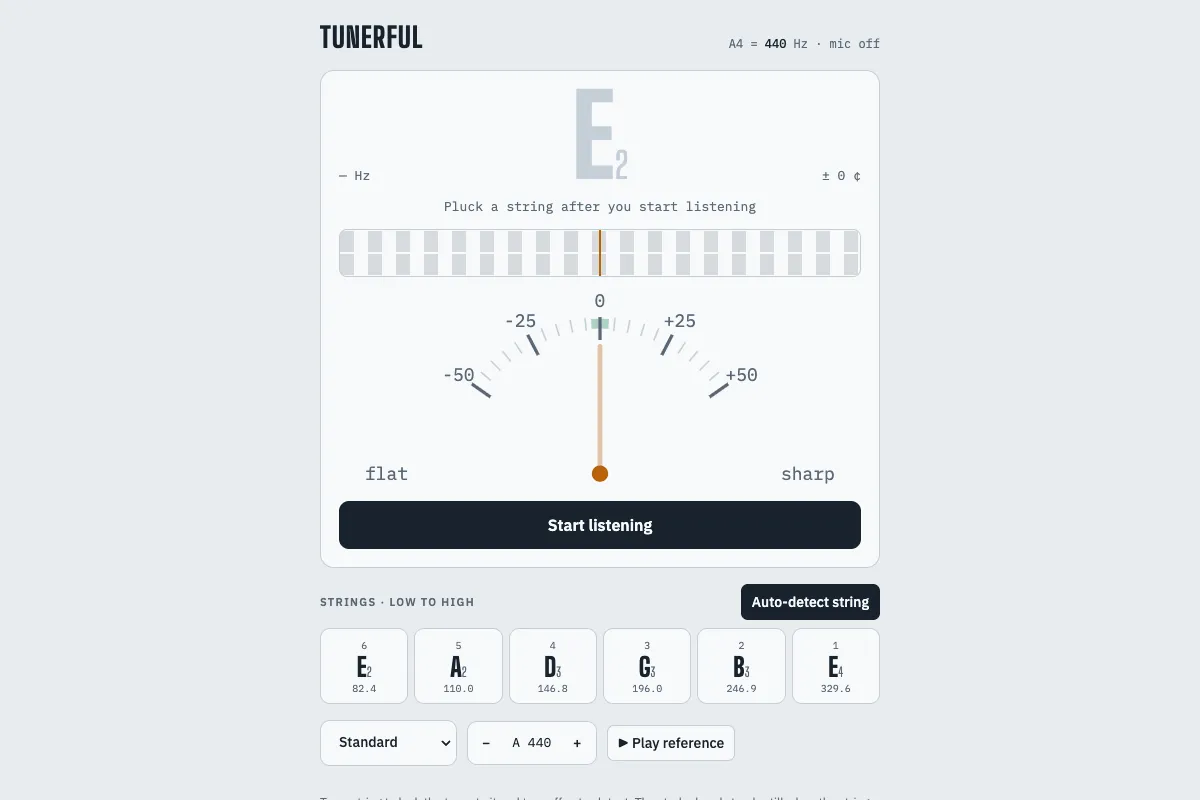
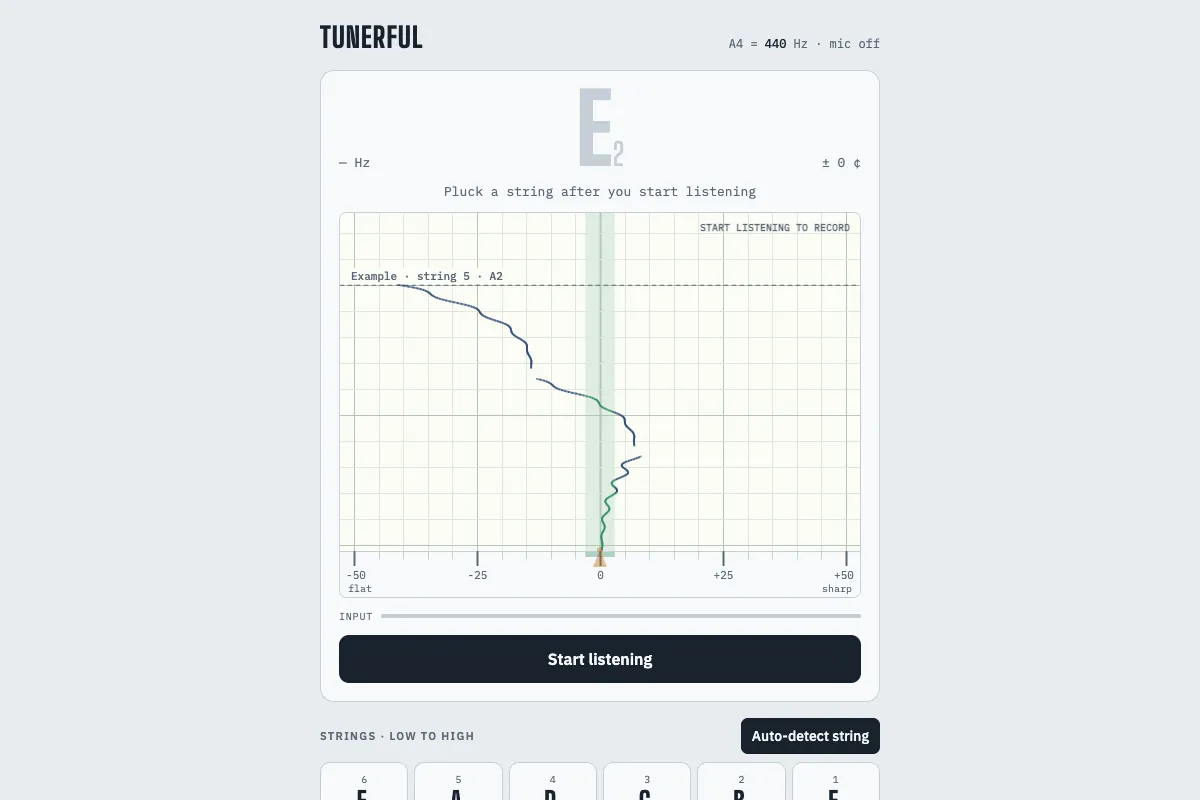
Tunerful: redesign as a chart recorder, and fix the microphone
The pitch trace is drawn on paper that feeds up out of a pen carriage
carrying the cents scale, replacing the strobe band and arc gauge. The
paper only feeds while a note sounds, and a new sheet starts whenever
the string changes, so the sheet holds the tuning history for the
current string. An example sheet is shown before listening.

The tuner often heard nothing: a fixed loudness gate discarded quiet
input with auto gain control off. Detection now uses an adaptive noise
floor shown on a new input meter, needs three agreeing readings before
the pen drops, skips windows that straddle an attack or stop, and lifts
the pen in a note's faint tail. The audio context is resumed after the
permission prompt and the analyser is pulled through a silent sink.

The icon is redrawn to match.

diff --git a/static-assets/toys/tunerful/index.html b/static-assets/toys/tunerful/index.html
@@ -5,24 +5,27 @@
 <script src="../pwa.js" defer></script>
 </head><body>
 <title>Tunerful</title>
-<meta name="description" content="A guitar tuner with a strobe band and cents gauge: it listens through the microphone, spots the string you play, and plays reference tones for eight tunings">
+<meta name="description" content="A guitar tuner built like a chart recorder: it listens through the microphone, spots the string you play, and plots its pitch on paper that scrolls up from the pen, with reference tones for eight tunings">
 <link rel="preconnect" href="https://fonts.googleapis.com">
 <link rel="stylesheet" href="https://fonts.googleapis.com/css2?family=Big+Shoulders+Display:wght@500;800&family=IBM+Plex+Mono:wght@400;500&family=IBM+Plex+Sans:wght@400;500;600&display=swap">
 <style>
-/* Layout: one instrument faceplate — strobe band and cents gauge on top, strings and settings below */
+/* Layout: one instrument faceplate — readout on top, chart paper feeding up out of the pen carriage, strings and settings below */
 :root{
   --bg:#e7ecef; --panel:#f8fafb; --ink:#18222c; --muted:#5a6876; --line:#c5cfd7;
-  --accent:#b8620c; --good:#23875a; --warn:#b9442a; --stripe:#18222c;
+  --accent:#b8620c; --good:#23875a; --warn:#b9442a;
+  --paper:#fbfcf6; --grid:#dfe7dc; --grid2:#b4c7b6; --trace:#1d3b6e;
   --f-display:"Big Shoulders Display", "Arial Narrow", Impact, sans-serif;
   --f-body:"IBM Plex Sans", system-ui, -apple-system, sans-serif;
   --f-mono:"IBM Plex Mono", ui-monospace, Menlo, monospace;
 }
 @media (prefers-color-scheme: dark){:root:not([data-theme="light"]){
   --bg:#10171d; --panel:#172129; --ink:#e4ebf0; --muted:#8798a6; --line:#2a3742;
-  --accent:#f0a447; --good:#5fd08e; --warn:#ef7a5e; --stripe:#e4ebf0; color-scheme:dark}}
+  --accent:#f0a447; --good:#5fd08e; --warn:#ef7a5e;
+  --paper:#121b21; --grid:#1f2c34; --grid2:#33464f; --trace:#9cc4ff; color-scheme:dark}}
 :root[data-theme="dark"]{
   --bg:#10171d; --panel:#172129; --ink:#e4ebf0; --muted:#8798a6; --line:#2a3742;
-  --accent:#f0a447; --good:#5fd08e; --warn:#ef7a5e; --stripe:#e4ebf0; color-scheme:dark}
+  --accent:#f0a447; --good:#5fd08e; --warn:#ef7a5e;
+  --paper:#121b21; --grid:#1f2c34; --grid2:#33464f; --trace:#9cc4ff; color-scheme:dark}
 
 html,body{height:100%}
 body{background:var(--bg);color:var(--ink);font-family:var(--f-body);font-size:15px;
@@ -33,11 +36,11 @@ h1{font-family:var(--f-display);font-weight:800;font-size:28px;letter-spacing:.0
 .status{font-family:var(--f-mono);font-size:12px;color:var(--muted);text-align:right}
 .status b{font-weight:500;color:var(--ink)}
 
-.face{background:var(--panel);border:1px solid var(--line);border-radius:14px;padding:18px;display:flex;flex-direction:column;gap:14px}
+.face{background:var(--panel);border:1px solid var(--line);border-radius:14px;padding:18px;display:flex;flex-direction:column;gap:12px}
 .readout{display:grid;grid-template-columns:1fr auto 1fr;align-items:end;gap:8px}
 .readout .side{font-family:var(--f-mono);font-size:13px;color:var(--muted);font-variant-numeric:tabular-nums}
 .readout .side.r{text-align:right}
-.note{font-family:var(--f-display);font-weight:800;font-size:112px;line-height:.85;text-align:center;min-width:2ch;transition:color .2s}
+.note{font-family:var(--f-display);font-weight:800;font-size:96px;line-height:.85;text-align:center;min-width:2ch;transition:color .2s}
 .note sub,.note sup{font-size:.32em;font-weight:500;vertical-align:baseline}
 .note sup{position:relative;top:-1.6em;margin-left:-.05em}
 .note.in{color:var(--good)}
@@ -45,15 +48,15 @@ h1{font-family:var(--f-display);font-weight:800;font-size:28px;letter-spacing:.0
 .hint{text-align:center;font-family:var(--f-mono);font-size:13px;min-height:1.3em;color:var(--muted)}
 .hint.in{color:var(--good)} .hint.off{color:var(--accent)}
 
-.strobe{position:relative;height:46px;border-radius:8px;overflow:hidden;border:1px solid var(--line)}
-.strobe canvas{display:block;width:100%;height:100%}
-.strobe .mid{position:absolute;left:50%;top:-1px;bottom:-1px;width:2px;margin-left:-1px;background:var(--accent)}
-.gauge svg{width:100%;height:auto;display:block;overflow:visible}
-.gauge text{font-family:var(--f-mono);font-size:11px;fill:var(--muted)}
-.gauge .tick{stroke:var(--line)} .gauge .tick.major{stroke:var(--muted)}
-.gauge .zone{fill:none;stroke:var(--good);stroke-width:6;opacity:.35}
-.gauge .needle{stroke:var(--accent);stroke-width:3;stroke-linecap:round}
-.gauge .hub{fill:var(--accent)}
+/* the recorder: paper above, pen carriage (the cents scale) along the bottom edge */
+.recorder{position:relative;height:clamp(260px,48vh,480px);border-radius:8px;overflow:hidden;border:1px solid var(--line)}
+.recorder canvas{display:block;width:100%;height:100%}
+.level{display:flex;align-items:center;gap:8px;font-family:var(--f-mono);font-size:10px;letter-spacing:.08em;color:var(--muted);text-transform:uppercase}
+.level .bar{position:relative;flex:1;height:4px;border-radius:2px;background:var(--line)}
+.level .bar i{position:absolute;left:0;top:0;bottom:0;width:0;border-radius:2px;background:var(--muted);transition:width .08s}
+.level .bar b{position:absolute;top:-3px;bottom:-3px;width:2px;margin-left:-1px;background:var(--accent);left:0}
+.level:not(.on) .bar b{display:none}
+.level.hot .bar i{background:var(--good)}
 
 .go{font:600 16px var(--f-body);background:var(--ink);color:var(--panel);border:0;border-radius:10px;padding:14px;cursor:pointer}
 .go.on{background:transparent;color:var(--ink);border:1px solid var(--line)}
@@ -80,7 +83,7 @@ select{padding-right:4px}
 .chip[aria-pressed="true"]{background:var(--ink);color:var(--panel);border-color:var(--ink)}
 button:focus-visible,select:focus-visible{outline:2px solid var(--accent);outline-offset:2px}
 .foot{font-size:12px;color:var(--muted);line-height:1.5}
-@media (max-width:420px){.note{font-size:92px}.str .n{font-size:22px}}
+@media (max-width:420px){.note{font-size:80px}.str .n{font-size:22px}}
 @media (prefers-reduced-motion:reduce){*{transition:none!important}}
 </style>
 
@@ -97,8 +100,8 @@ button:focus-visible,select:focus-visible{outline:2px solid var(--accent);outlin
       <div class="side r" id="cents">± 0 ¢</div>
     </div>
     <div class="hint" id="hint">Pluck a string after you start listening</div>
-    <div class="strobe" aria-hidden="true"><canvas id="strobe"></canvas><div class="mid"></div></div>
-    <div class="gauge" aria-hidden="true"><svg id="gauge" viewBox="0 0 320 120"></svg></div>
+    <div class="recorder" aria-hidden="true"><canvas id="chart"></canvas></div>
+    <div class="level" id="level" aria-hidden="true"><span>Input</span><span class="bar"><i></i><b></b></span></div>
     <button class="go" id="go">Start listening</button>
     <div class="msg" id="msg" hidden></div>
   </section>
@@ -121,7 +124,7 @@ button:focus-visible,select:focus-visible{outline:2px solid var(--accent);outlin
     <button class="chip" id="play">▶ Play reference</button>
   </section>
 
-  <p class="foot">Tap a string to lock the tuner to it and turn off auto-detect. The strobe band stands still when the string is in tune and drifts right when sharp, left when flat. Green zone is ±3 cents.</p>
+  <p class="foot">The pen rides along the cents scale at the foot of the chart, and the paper feeds upwards while a note sounds, so the sheet holds your tuning history for the current string. A new sheet starts whenever the string changes. Tap a string to lock the tuner to it and turn off auto-detect. The green band is ±3 cents. The orange mark on the input bar is the noise gate, which rises with background noise.</p>
 </div>
 
 <script>
@@ -180,51 +183,112 @@ function setA4(v){a4=Math.max(415,Math.min(466,v));store.set('a4',a4);$('a4v').t
 $('a4dn').onclick=()=>setA4(a4-1);$('a4up').onclick=()=>setA4(a4+1);
 setA4(a4);
 
-/* ---------- gauge ---------- */
-const G=$('gauge'),cx=160,cy=112,R=96,SPAN=55; // degrees each side for ±50¢
-const ang=c=>(Math.max(-50,Math.min(50,c))/50)*SPAN*Math.PI/180;
-let svg='';
-const arc=(c0,c1,r)=>{const a0=ang(c0),a1=ang(c1);
-  return `M${cx+r*Math.sin(a0)} ${cy-r*Math.cos(a0)} A${r} ${r} 0 0 1 ${cx+r*Math.sin(a1)} ${cy-r*Math.cos(a1)}`};
-svg+=`<path class="zone" d="${arc(-3,3,R-4)}"/>`;
-for(let c=-50;c<=50;c+=5){const a=ang(c),maj=c%25===0,r0=maj?R-14:R-8;
-  svg+=`<line class="tick${maj?' major':''}" x1="${cx+r0*Math.sin(a)}" y1="${cy-r0*Math.cos(a)}" x2="${cx+R*Math.sin(a)}" y2="${cy-R*Math.cos(a)}" stroke-width="${maj?2:1}"/>`;
-  if(maj){const rl=R+10;svg+=`<text x="${cx+rl*Math.sin(a)}" y="${cy-rl*Math.cos(a)+4}" text-anchor="middle">${c>0?'+':''}${c}</text>`}}
-svg+=`<text x="16" y="116">flat</text><text x="304" y="116" text-anchor="end">sharp</text>`;
-svg+=`<line id="needle" class="needle" x1="${cx}" y1="${cy}" x2="${cx}" y2="${cy-R+18}"/><circle class="hub" cx="${cx}" cy="${cy}" r="5"/>`;
-G.innerHTML=svg;
-const needle=$('needle');
-let needleC=0,targetC=0,live=false;
+/* ---------- chart recorder ----------
+   Paper position is measured in CSS px of paper fed so far. The paper only
+   feeds while the pen is down (a note is sounding), so the silence between
+   plucks costs a short gap rather than a screenful, and the sheet holds the
+   whole history for the current string. A change of string starts a new sheet. */
+const FEED=26;            // px of paper per second of sound
+const CARR=46;            // height of the pen carriage strip
+const GAP=10;             // paper skipped when the pen lifts and drops again
+const cv=$('chart'),cx=cv.getContext('2d');
+let W=0,H=0,dpr=1;
+let paper=0,trace=[],marks=[],demo=false;
+let needleC=0,targetC=0,live=false,wasDrawing=false;
+function size(){const r=cv.getBoundingClientRect();dpr=devicePixelRatio||1;W=r.width;H=r.height;cv.width=Math.round(W*dpr);cv.height=Math.round(H*dpr)}
+new ResizeObserver(size).observe(cv);size();
+let cssCache={};
+const css=v=>cssCache[v]??=getComputedStyle(document.documentElement).getPropertyValue(v).trim();
+matchMedia('(prefers-color-scheme: dark)').addEventListener?.('change',()=>cssCache={});
 
-/* ---------- strobe ---------- */
-const sc=$('strobe'),sx=sc.getContext('2d');
-let phase=0,lastT=performance.now();
-function sizeStrobe(){const r=sc.getBoundingClientRect(),d=devicePixelRatio||1;sc.width=r.width*d;sc.height=r.height*d}
-addEventListener('resize',sizeStrobe);sizeStrobe();
-const css=v=>getComputedStyle(document.documentElement).getPropertyValue(v).trim();
+function newSheet(text){trace=[];marks=[{p:paper,text}];demo=false}
 
+// a sample sheet shown before listening: three plucks of the A string, flat, then over, then settling in
+function demoSheet(){
+  paper=0;trace=[];marks=[{p:0,text:'Example · string 5 · A2'}];demo=true;
+  [[-41,-14,3.2],[-14,7,2.6],[7,0.4,3.6]].forEach(([c0,c1,dur],k)=>{
+    if(k){trace.push(null);paper+=GAP}
+    for(let t=0;t<=dur;t+=1/30){const u=t/dur,e=1-Math.pow(1-u,2.4);
+      trace.push({p:paper,c:c0+(c1-c0)*e+Math.sin(t*9+k)*1.4*(1-u)});paper+=FEED/30}
+  });
+  trace.push(null);
+}
+
+function xOf(c){const pad=14;return pad+(Math.max(-50,Math.min(50,c))+50)/100*(W-2*pad)}
+
+function draw(){
+  const ph=H-CARR, mono=css('--f-mono')||'monospace';
+  cx.setTransform(dpr,0,0,dpr,0,0);
+  cx.fillStyle=css('--paper');cx.fillRect(0,0,W,ph);
+  // in-tune band
+  cx.fillStyle=css('--good');cx.globalAlpha=.13;cx.fillRect(xOf(-3),0,xOf(3)-xOf(-3),ph);cx.globalAlpha=1;
+  // vertical rulings every 5 cents
+  for(let c=-50;c<=50;c+=5){const x=Math.round(xOf(c))+.5,maj=c%25===0;
+    cx.strokeStyle=css(maj?'--grid2':'--grid');cx.lineWidth=c===0?2:1;
+    cx.beginPath();cx.moveTo(x,0);cx.lineTo(x,ph);cx.stroke()}
+  // horizontal rulings every second of feed, heavier every five, moving with the paper
+  for(let k=Math.floor((paper-ph)/FEED)*FEED;k<=paper;k+=FEED){
+    const y=Math.round(ph-(paper-k))+.5;if(y<0)continue;
+    cx.strokeStyle=css(Math.round(k/FEED)%5===0?'--grid2':'--grid');cx.lineWidth=1;
+    cx.beginPath();cx.moveTo(0,y);cx.lineTo(W,y);cx.stroke()}
+  // sheet headings
+  cx.font=`500 11px ${mono}`;cx.textBaseline='bottom';
+  marks.forEach(m=>{const y=ph-(paper-m.p);if(y<-20)return;
+    cx.strokeStyle=css('--muted');cx.lineWidth=1;cx.setLineDash([4,4]);cx.beginPath();cx.moveTo(0,y+.5);cx.lineTo(W,y+.5);cx.stroke();cx.setLineDash([]);
+    const tw=cx.measureText(m.text).width;cx.fillStyle=css('--paper');cx.fillRect(6,y-17,tw+10,16);
+    cx.fillStyle=css('--muted');cx.fillText(m.text,11,y-3)});
+  // the trace, coloured by whether each stretch was in tune
+  cx.globalAlpha=demo?.55:1;cx.lineWidth=2;cx.lineJoin=cx.lineCap='round';
+  let prev=null;
+  for(const pt of trace){
+    if(!pt||ph-(paper-pt.p)<-4){prev=pt;continue}
+    if(prev){const a=Math.abs(pt.c);
+      cx.strokeStyle=css(a>50?'--warn':a<3?'--good':'--trace');
+      cx.beginPath();cx.moveTo(xOf(prev.c),ph-(paper-prev.p));cx.lineTo(xOf(pt.c),ph-(paper-pt.p));cx.stroke()}
+    prev=pt}
+  cx.globalAlpha=1;
+  if(demo){cx.font=`600 10px ${mono}`;cx.fillStyle=css('--muted');cx.textBaseline='top';cx.textAlign='right';
+    cx.fillText('START LISTENING TO RECORD',W-10,10);cx.textAlign='left'}
+  // pen carriage: the cents scale the pen rides on
+  const cy=ph;
+  cx.fillStyle=css('--panel');cx.fillRect(0,cy,W,CARR);
+  cx.strokeStyle=css('--line');cx.lineWidth=1;cx.beginPath();cx.moveTo(0,cy+.5);cx.lineTo(W,cy+.5);cx.stroke();
+  cx.fillStyle=css('--good');cx.globalAlpha=.35;cx.fillRect(xOf(-3),cy+1,xOf(3)-xOf(-3),5);cx.globalAlpha=1;
+  cx.font=`400 11px ${mono}`;cx.textBaseline='alphabetic';cx.textAlign='center';
+  for(let c=-50;c<=50;c+=5){const x=Math.round(xOf(c))+.5,maj=c%25===0;
+    cx.strokeStyle=css(maj?'--muted':'--line');cx.lineWidth=maj?2:1;
+    cx.beginPath();cx.moveTo(x,cy+1);cx.lineTo(x,cy+(maj?14:8));cx.stroke();
+    if(maj){cx.fillStyle=css('--muted');cx.fillText((c>0?'+':'')+c,Math.max(16,Math.min(W-16,x)),cy+28)}}
+  cx.font=`400 10px ${mono}`;cx.fillStyle=css('--muted');
+  cx.textAlign='left';cx.fillText('flat',8,cy+41);cx.textAlign='right';cx.fillText('sharp',W-8,cy+41);cx.textAlign='left';
+  // the pen: an arm up to the paper edge, with the nib on it
+  const px=xOf(live?needleC:0);
+  cx.globalAlpha=live?1:.4;
+  cx.fillStyle=css('--accent');
+  cx.beginPath();cx.moveTo(px,cy-1);cx.lineTo(px-7,cy+16);cx.lineTo(px+7,cy+16);cx.closePath();cx.fill();
+  cx.beginPath();cx.arc(px,cy-1,live?4:3,0,Math.PI*2);cx.fill();
+  cx.globalAlpha=1;
+}
+
+let lastT=performance.now();
 function frame(t){
   const dt=Math.min(.05,(t-lastT)/1000);lastT=t;
-  needleC+=(targetC-needleC)*Math.min(1,dt*10);
-  needle.setAttribute('transform',`rotate(${(live?Math.max(-50,Math.min(50,needleC)):0)/50*SPAN} ${cx} ${cy})`);
-  needle.style.opacity=live?1:.35;
-  // strobe: velocity proportional to cents error
-  const W=sc.width,H=sc.height,d=devicePixelRatio||1,band=14*d;
-  if(live) phase+=needleC*dt*6*d;
-  sx.clearRect(0,0,W,H);
-  const inTune=live&&Math.abs(needleC)<3;
-  sx.fillStyle=inTune?css('--good'):css('--stripe');
-  sx.globalAlpha=live?(inTune?.85:.75):.15;
-  const rows=[[0,H/2,1],[H/2,H/2,2]]; // second row runs at double speed (octave)
-  rows.forEach(([y,h,k])=>{const p=((phase*k)%(band*2)+band*2)%(band*2);
-    for(let x=-band*2+p;x<W+band;x+=band*2) sx.fillRect(x,y+1,band,h-2)});
-  sx.globalAlpha=1;
+  needleC+=(targetC-needleC)*Math.min(1,dt*12);
+  if(live){
+    if(!wasDrawing&&trace.length&&trace[trace.length-1]!==null){trace.push(null)}
+    if(!wasDrawing&&trace.length)paper+=GAP;
+    paper+=FEED*dt;trace.push({p:paper,c:needleC});
+    // forget what has scrolled well off the top
+    let i=0;while(i<trace.length-1&&(!trace[i]||paper-trace[i].p>H+40))i++;
+    if(i>200)trace.splice(0,i);
+  }else if(wasDrawing)trace.push(null);
+  wasDrawing=live;
+  draw();
   requestAnimationFrame(frame);
 }
-requestAnimationFrame(frame);
 
 /* ---------- pitch detection (YIN) ---------- */
-let ctx,an,buf,yinD,running=false,stream,wake;
+let ctx,src,an,sink,buf,yinD,running=false,stream,wake;
 function yin(b,sr){
   const W=b.length>>1,maxT=Math.min(W-1,Math.floor(sr/60)),minT=Math.floor(sr/1200);
   if(!yinD||yinD.length<maxT+1) yinD=new Float32Array(maxT+1);
@@ -232,37 +296,70 @@ function yin(b,sr){
   for(let t=1;t<=maxT;t++){let s=0;for(let i=0;i<W;i++){const x=b[i]-b[i+t];s+=x*x}sum+=s;d[t]=sum?s*t/sum:1}
   let tau=-1;
   for(let t=minT;t<=maxT;t++){if(d[t]<0.12){while(t+1<=maxT&&d[t+1]<d[t])t++;tau=t;break}}
-  if(tau<0){let best=1;for(let t=minT;t<=maxT;t++)if(d[t]<best){best=d[t];tau=t}if(best>0.25)return null}
+  if(tau<0){let best=1;for(let t=minT;t<=maxT;t++)if(d[t]<best){best=d[t];tau=t}if(best>0.18)return null}
   const a=d[tau-1]??d[tau],c=d[tau+1]??d[tau],den=a+c-2*d[tau];
   const shift=den?(a-c)/(2*den):0;
   return sr/(tau+shift);
 }
+// Gate: an adaptive noise floor, tracked between notes. A note has to clear
+// three times the floor and give three consistent readings in a row before
+// the pen drops, so speech, taps and room noise don't scribble on the chart
+const MIN_GATE=0.003,AGREE=3,AGREE_CENTS=35,RELEASE=450;
+let floor=MIN_GATE/3,cand=0,candN=0,peak=0;
 const hist=[];let lastHeard=0,tick=0;
+const toDb=v=>20*Math.log10(v+1e-9),dbPct=db=>Math.max(0,Math.min(100,(db+66)/66*100));
 function analyse(){
   if(!running)return;
   requestAnimationFrame(analyse);
   if((tick++&1))return;
   an.getFloatTimeDomainData(buf);
   let rms=0;for(let i=0;i<buf.length;i++)rms+=buf[i]*buf[i];rms=Math.sqrt(rms/buf.length);
-  const now=performance.now();
-  if(rms>0.008){const f=yin(buf,ctx.sampleRate);
-    if(f&&f>60&&f<1200){hist.push(f);if(hist.length>5)hist.shift();lastHeard=now;
-      const m=[...hist].sort((x,y)=>x-y)[hist.length>>1];show(m)}}
-  if(now-lastHeard>900&&live){live=false;hist.length=0;$('note').classList.add('idle');$('hint').className='hint';$('hint').textContent='Listening…';near=-1;paintStrings()}
+  const now=performance.now(),gate=Math.max(MIN_GATE,floor*3);
+  let f=null;
+  // skip windows that straddle an attack or a damped stop: their pitch reads sharp
+  const q=buf.length>>2;let e0=0,e3=0;for(let i=0;i<q;i++){e0+=buf[i]*buf[i];e3+=buf[i+3*q]*buf[i+3*q]}
+  const steady=e3>e0*0.25&&e3<e0*4;
+  // and lift the pen in the faint tail of a note, where noise drags the reading
+  if(!live||rms>peak)peak=rms;
+  if(rms>gate&&steady&&!(live&&rms<peak*0.12)){f=yin(buf,ctx.sampleRate);if(f&&(f<60||f>1200))f=null}
+  if(f){
+    if(cand&&Math.abs(1200*Math.log2(f/cand))<AGREE_CENTS)candN++;else candN=1;
+    cand=f;
+    if(candN>=AGREE){hist.push(f);if(hist.length>5)hist.shift();lastHeard=now;
+      show([...hist].sort((x,y)=>x-y)[hist.length>>1])}
+  }else{
+    candN=0;
+    // follow the floor down quickly and up slowly, and only between notes
+    if(!live&&steady)floor=Math.min(0.03,floor+(rms-floor)*(rms<floor?0.3:0.02));
+  }
+  const L=$('level');
+  L.querySelector('i').style.width=dbPct(toDb(rms))+'%';
+  L.querySelector('b').style.left=dbPct(toDb(gate))+'%';
+  L.classList.toggle('hot',!!f&&candN>=AGREE);
+  if(now-lastHeard>RELEASE&&live){live=false;hist.length=0;inSince=0;$('note').classList.add('idle');$('hint').className='hint';$('hint').textContent='Listening…';near=-1;paintStrings()}
 }
-let inSince=0;
+let inSince=0,sheetKey=null,pend=-1,pendN=0;
 function show(f){
+  const fresh=!live;
   live=true;
   const t=TUNINGS[tuningName];
   const midi=69+12*Math.log2(f/a4);
-  if(auto){let best=0,bd=1e9;t.forEach((m,i)=>{const dd=Math.abs(midi-m);if(dd<bd){bd=dd;best=i}});near=best;sel=best}
+  if(auto){let best=0,bd=1e9;t.forEach((m,i)=>{const dd=Math.abs(midi-m);if(dd<bd){bd=dd;best=i}});
+    // a new pluck may land on any string at once; mid-note, a change of string needs a few agreeing readings
+    if(best===sel||fresh){sel=best;pend=-1}
+    else if(best===pend){if(++pendN>=4){sel=best;pend=-1}}
+    else{pend=best;pendN=1}
+    near=sel}
   else near=-1;
   const tgt=t[sel], semis=midi-tgt;
   const useString=auto?Math.abs(semis)<1.5:true;
   let refM,cents;
   if(useString){refM=tgt;cents=semis*100}
   else{refM=Math.round(midi);cents=(midi-refM)*100}
-  targetC=cents;
+  targetC=cents;if(fresh)needleC=cents;
+  const key=useString?`s|${tuningName}|${sel}|${a4}`:`n|${refM}|${a4}`;
+  if(key!==sheetKey){sheetKey=key;
+    newSheet(useString?`String ${6-sel} · ${plain(tgt)} · ${mtof(tgt).toFixed(1)} Hz`:`${plain(refM)} · not a string in this tuning`)}
   const N=$('note'),inTune=Math.abs(cents)<3;
   N.innerHTML=noteHTML(Math.round(midi));N.classList.remove('idle');N.classList.toggle('in',inTune&&Math.abs(cents)<50);
   $('freq').textContent=f.toFixed(1)+' Hz';
@@ -280,9 +377,15 @@ async function start(){
   try{
     ensureCtx();
     stream=await navigator.mediaDevices.getUserMedia({audio:{echoCancellation:false,noiseSuppression:false,autoGainControl:false}});
-    const src=ctx.createMediaStreamSource(stream);
-    an=ctx.createAnalyser();an.fftSize=4096;buf=new Float32Array(an.fftSize);src.connect(an);
-    running=true;analyse();
+    // the permission prompt can leave the context suspended or interrupted (Safari, iOS)
+    if(ctx.state!=='running')await ctx.resume();
+    src=ctx.createMediaStreamSource(stream);
+    an=ctx.createAnalyser();an.fftSize=4096;buf=new Float32Array(an.fftSize);
+    // pull the analyser through a silent sink so every engine keeps rendering it
+    sink=ctx.createGain();sink.gain.value=0;src.connect(an).connect(sink).connect(ctx.destination);
+    if(demo){paper=0;trace=[];marks=[];demo=false}
+    sheetKey=null;floor=MIN_GATE/3;candN=0;
+    running=true;analyse();$('level').classList.add('on');
     $('go').textContent='Stop listening';$('go').classList.add('on');
     $('status').innerHTML=`A4 = <b id="a4s">${a4}</b> Hz · listening`;
     $('hint').className='hint';$('hint').textContent='Listening… pluck a string';
@@ -293,6 +396,8 @@ async function start(){
   }
 }
 function stop(){running=false;stream?.getTracks().forEach(t=>t.stop());live=false;
+  try{src?.disconnect();sink?.disconnect()}catch(e){}
+  $('level').querySelector('i').style.width='0';$('level').classList.remove('hot','on');
   try{wake?.release()}catch(e){}
   $('go').textContent='Start listening';$('go').classList.remove('on');
   $('status').innerHTML=`A4 = <b id="a4s">${a4}</b> Hz · mic off`;$('note').classList.add('idle')}
@@ -315,6 +420,8 @@ $('play').onclick=()=>{
 
 renderStrings();
 $('note').innerHTML=noteHTML(TUNINGS[tuningName][0]);
+demoSheet();
+requestAnimationFrame(frame);
 })();
 </script>
 
